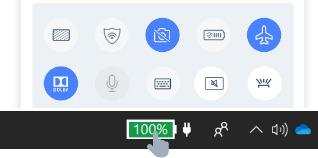
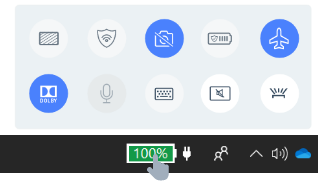
VAN-15501 Added the image for DT machine

diff --git a/vtr-ui/src/app/components/pages/page-device-settings/children/subpage-device-settings-power/subpage-device-settings-power.component.html b/vtr-ui/src/app/components/pages/page-device-settings/children/subpage-device-settings-power/subpage-device-settings-power.component.html
@@ -40,7 +40,11 @@
 										<div class="col px-5">
 											<div class="row mb-4 mt-4 ml-4">
 												<div>
-													<img alt=""
+													<img *ngIf="isDesktopMachine" alt=""
+														class="img-fluid mx-auto d-block"
+														src="assets/images/pin_toolbar_dt.png"
+													>
+													<img *ngIf="!isDesktopMachine" alt=""
 														class="img-fluid mx-auto d-block"
 														src="assets/images/pin_toolbar_non_dt.png"
 													>
